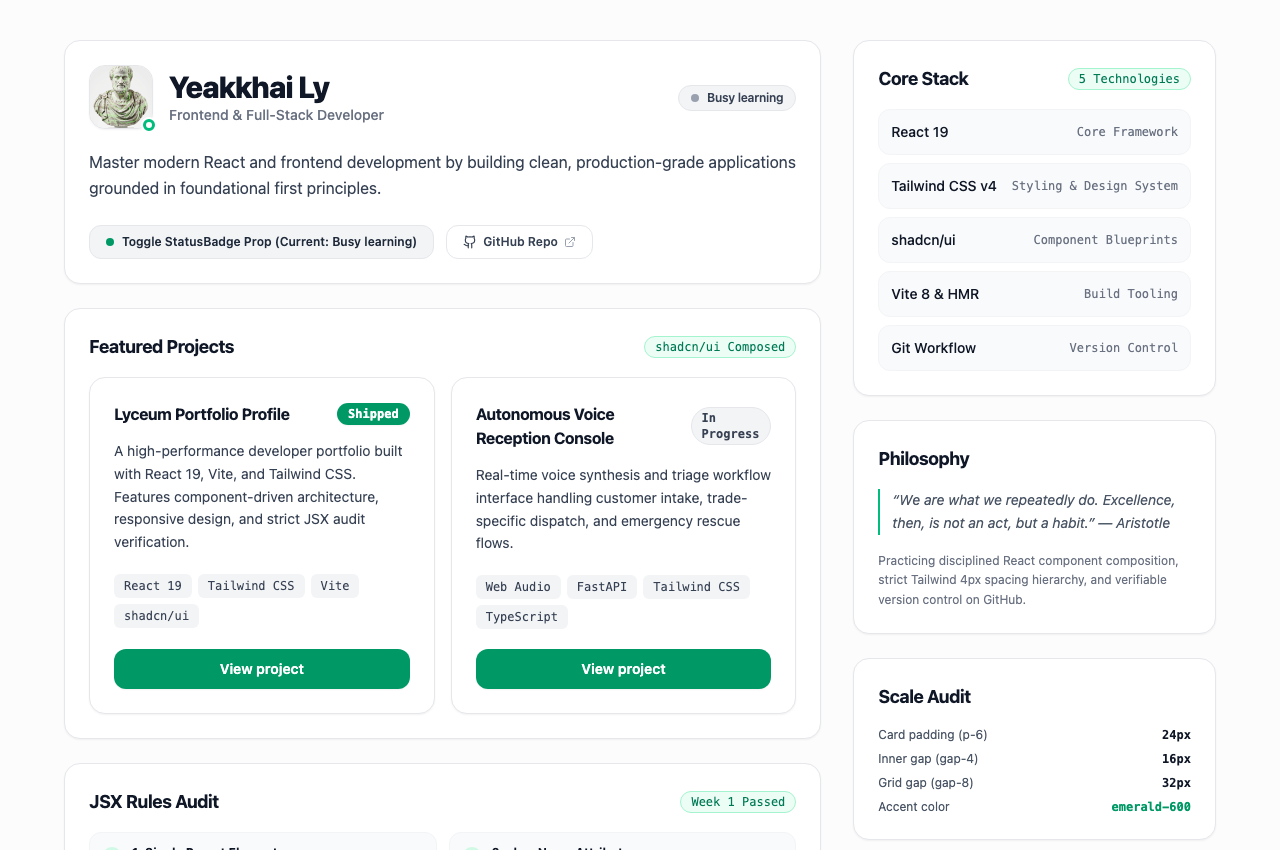
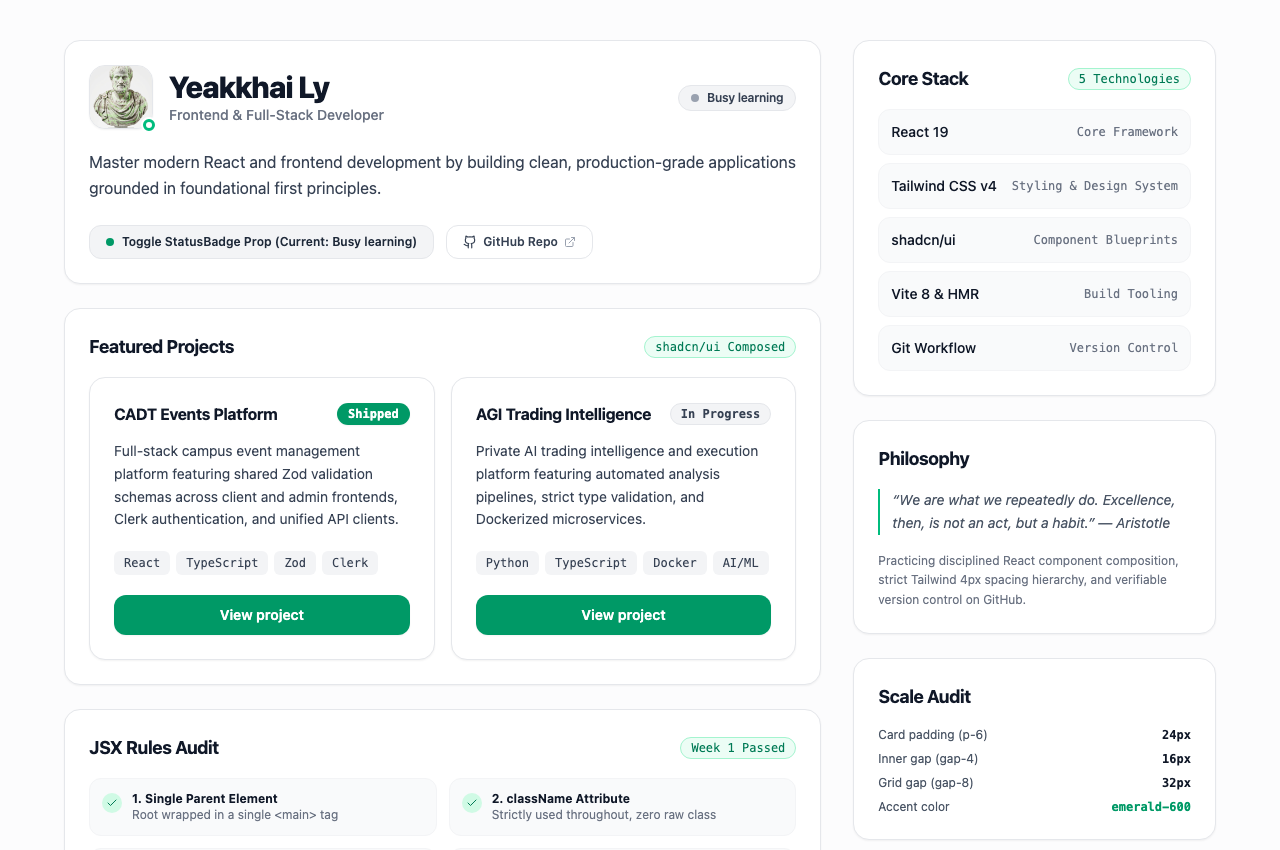
feat: feature real projects (CADT-Events and AGI-trading) in ProjectCards

diff --git a/src/App.jsx b/src/App.jsx
@@ -38,20 +38,20 @@ export default function App() {
 
   const projects = [
     {
-      title: "Lyceum Portfolio Profile",
+      title: "CADT Events Platform",
       status: "Shipped",
       description:
-        "A high-performance developer portfolio built with React 19, Vite, and Tailwind CSS. Features component-driven architecture, responsive design, and strict JSX audit verification.",
-      tags: ["React 19", "Tailwind CSS", "Vite", "shadcn/ui"],
-      link: "https://github.com/lyyeakkhai/my-portfolio",
+        "Full-stack campus event management platform featuring shared Zod validation schemas across client and admin frontends, Clerk authentication, and unified API clients.",
+      tags: ["React", "TypeScript", "Zod", "Clerk"],
+      link: "https://github.com/lyyeakkhai/CADT-Events",
     },
     {
-      title: "Autonomous Voice Reception Console",
+      title: "AGI Trading Intelligence",
       status: "In Progress",
       description:
-        "Real-time voice synthesis and triage workflow interface handling customer intake, trade-specific dispatch, and emergency rescue flows.",
-      tags: ["Web Audio", "FastAPI", "Tailwind CSS", "TypeScript"],
-      link: "https://github.com/lyyeakkhai/my-portfolio",
+        "Private AI trading intelligence and execution platform featuring automated analysis pipelines, strict type validation, and Dockerized microservices.",
+      tags: ["Python", "TypeScript", "Docker", "AI/ML"],
+      link: "https://github.com/lyyeakkhai/AGI-trading",
     },
   ]
 
